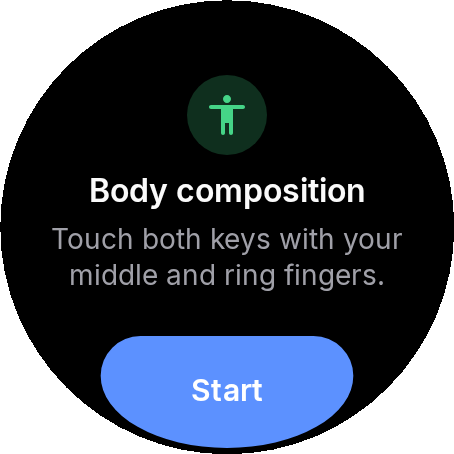
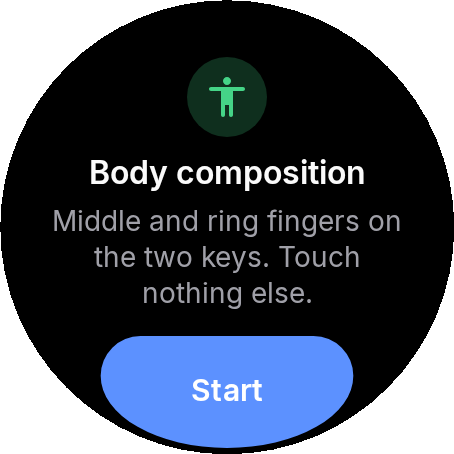
Body composition: specific advice for every BIA status, not "wear your watch snugly"
Only statuses 0 and 7/8/9 were handled. Every other BIA status became the wrist-contact hint,
so a real problem such as fingers touching the metal frame, dry skin or hands touching showed
as "Wear your watch snugly" until the ring stalled.

All documented statuses (ValueKey.BiaSet) now map to their own advice:
- 11: moisten fingertips.
- 14: keep arms apart.
- 15: touch only the keys.
- 13 and 17: hold still.
- 4 and 10: wear the watch snugly.
- 18 (implausible for the profile): ends with "check height, weight and birth date".

The instruction now says to touch nothing but the two keys.

Changed region(s): [[0.0925, 0.1233, 0.8943, 0.6784]]

diff --git a/wear/src/main/kotlin/com/heartline/wear/sensor/sdk/SdkQuickSources.kt b/wear/src/main/kotlin/com/heartline/wear/sensor/sdk/SdkQuickSources.kt
@@ -152,7 +152,10 @@ class SdkSkinTempSource(private val gateway: SdkSensorGateway) :
 
 /**
  * BIA_ON_DEMAND with the user profile (TrackerUserProfile: gender 1 = male, 0 = female).
- * Status 0 success; 4/10 wrist contact; 7/8/9 finger(s) off the keys.
+ * Status (ValueKey.BiaSet): 0 success, 4 wrist electrode detached, 7/8 a finger off the 2 or
+ * 4 o'clock key, 9 both fingers off, 10 wrist loose, 11 dry skin, 13 impedance out of range,
+ * 14 hands touching, 15 fingers on the metal frame, 17 unstable impedance, 18 body fat out of
+ * range for the profile.
  */
 class SdkBiaSource(private val gateway: SdkSensorGateway) :
     SdkQuickSource(gateway, TrackerKind.BIA_ON_DEMAND, Metric.BODY_COMPOSITION, RecordKind.BODY_COMPOSITION, 15) {
@@ -191,19 +194,28 @@ class SdkBiaSource(private val gateway: SdkSensorGateway) :
                 )
                 true
             }
-            7, 8, 9 -> {
-                // Fingers off the keys: the watch restarts the measurement once they're back.
-                problem = QuickHint.TOUCH_KEYS
-                sdkProgress = 0f
-                false
+            18 -> {
+                // Final: the profile doesn't match the body (e.g. age or weight wrong).
+                trySendBlocking(QuickEvent.Failed(null, QuickHint.CHECK_PROFILE))
+                true
             }
             else -> {
-                problem = QuickHint.WRIST_CONTACT
+                // Contact problems: the watch restarts the measurement once they're fixed.
+                problem = biaHint(status)
                 sdkProgress = 0f
                 false
             }
         }
     }
+}
+
+internal fun biaHint(status: Int?): QuickHint = when (status) {
+    7, 8, 9 -> QuickHint.TOUCH_KEYS
+    11 -> QuickHint.DRY_SKIN
+    14 -> QuickHint.HANDS_APART
+    15 -> QuickHint.KEYS_ONLY
+    13, 17 -> QuickHint.HOLD_STILL
+    else -> QuickHint.WRIST_CONTACT // 4, 10 and anything undocumented
 }
 
 /** Average skin conductance (µS) over [seconds] from EDA_CONTINUOUS (Watch8+), or null. */

diff --git a/wear/src/main/kotlin/com/heartline/wear/sensor/QuickSources.kt b/wear/src/main/kotlin/com/heartline/wear/sensor/QuickSources.kt
@@ -17,7 +17,24 @@ import kotlinx.coroutines.flow.flow
 import kotlin.random.Random
 
 /** Why a quick measurement is struggling; shown as a hint while measuring. */
-enum class QuickHint { HOLD_STILL, LOW_SIGNAL, TOUCH_KEYS, WRIST_CONTACT }
+enum class QuickHint {
+    HOLD_STILL,
+    LOW_SIGNAL,
+    TOUCH_KEYS,
+    WRIST_CONTACT,
+
+    /** Body composition: fingertips too dry for the electrodes. */
+    DRY_SKIN,
+
+    /** Body composition: the two hands (or arms) touch each other. */
+    HANDS_APART,
+
+    /** Body composition: fingers also touch the metal frame, not just the keys. */
+    KEYS_ONLY,
+
+    /** Body composition: the result was implausible for the profile (height, weight, age). */
+    CHECK_PROFILE,
+}
 
 sealed interface QuickEvent {
     data class Progress(val fraction: Float, val hint: QuickHint? = null) : QuickEvent

diff --git a/wear/src/test/kotlin/com/heartline/wear/BiaStatusTest.kt b/wear/src/test/kotlin/com/heartline/wear/BiaStatusTest.kt
@@ -1,0 +1,21 @@
+package com.heartline.wear
+
+import com.heartline.wear.sensor.QuickHint
+import com.heartline.wear.sensor.sdk.biaHint
+import org.junit.Assert.assertEquals
+import org.junit.Test
+
+/** Every documented BIA status gets its own advice, not a generic "wear your watch snugly". */
+class BiaStatusTest {
+    @Test
+    fun documentedStatusesMapToSpecificHints() {
+        assertEquals(QuickHint.TOUCH_KEYS, biaHint(7))
+        assertEquals(QuickHint.TOUCH_KEYS, biaHint(9))
+        assertEquals(QuickHint.DRY_SKIN, biaHint(11))
+        assertEquals(QuickHint.HANDS_APART, biaHint(14))
+        assertEquals(QuickHint.KEYS_ONLY, biaHint(15))
+        assertEquals(QuickHint.HOLD_STILL, biaHint(17))
+        assertEquals(QuickHint.WRIST_CONTACT, biaHint(4))
+        assertEquals(QuickHint.WRIST_CONTACT, biaHint(10))
+    }
+}

diff --git a/wear/src/main/kotlin/com/heartline/wear/ui/screens/QuickScreens.kt b/wear/src/main/kotlin/com/heartline/wear/ui/screens/QuickScreens.kt
@@ -60,6 +60,10 @@ val QuickHint.text: Int
         QuickHint.LOW_SIGNAL -> R.string.hint_low_signal
         QuickHint.TOUCH_KEYS -> R.string.hint_touch_keys
         QuickHint.WRIST_CONTACT -> R.string.hint_wrist_contact
+        QuickHint.DRY_SKIN -> R.string.hint_dry_skin
+        QuickHint.HANDS_APART -> R.string.hint_hands_apart
+        QuickHint.KEYS_ONLY -> R.string.hint_keys_only
+        QuickHint.CHECK_PROFILE -> R.string.hint_check_profile
     }
 
 @Composable
